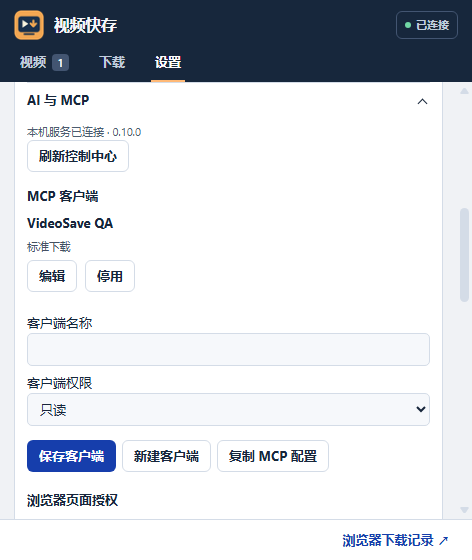
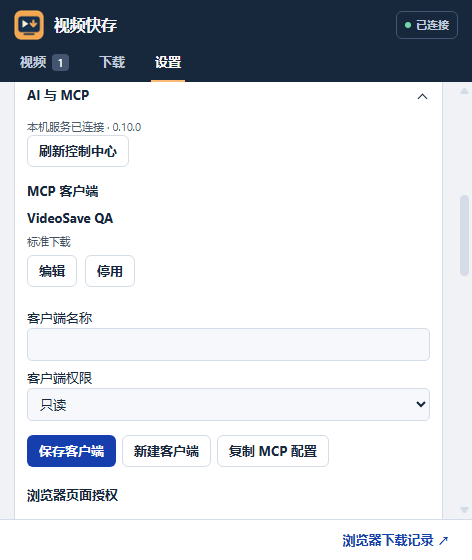
Scope managed MCP downloads and add opt-in browser sessions

diff --git a/extension/popup.html b/extension/popup.html
@@ -123,6 +123,7 @@
             <h3 data-i18n>浏览器页面授权</h3>
             <p class="details" data-i18n>分享当前页的同源媒体候选。授权在标签页导航、关闭或到期时撤销。</p>
             <label><span data-i18n>授权时长</span><select id="mcp-duration"><option value="1">1 min</option><option value="5" selected>5 min</option><option value="15">15 min</option></select></label>
+            <label class="check-row"><input type="checkbox" id="mcp-share-session" autocomplete="off"><span data-i18n>本次授权同时使用当前站点的登录会话</span></label>
             <ul class="mcp-list" id="mcp-grants"></ul>
           </section>
           <section class="mcp-section">
@@ -131,6 +132,7 @@
             <div id="mcp-policy" hidden>
               <label class="check-row"><input type="checkbox" data-mcp-policy="probe"><span data-i18n>允许 MCP 探测</span></label>
               <label class="check-row"><input type="checkbox" data-mcp-policy="download"><span data-i18n>允许 MCP 下载</span></label>
+              <label class="check-row"><input type="checkbox" data-mcp-policy="session"><span data-i18n>允许手动授权登录会话</span></label>
               <label><span data-i18n>画质上限</span><input type="number" min="144" max="4320" data-mcp-policy="quality"></label>
               <label><span data-i18n>视频格式</span><select data-mcp-policy="format"><option value="mp4">MP4</option><option value="mkv">MKV</option></select></label>
               <label><span data-i18n>音频格式</span><select data-mcp-policy="audioFormat"><option value="m4a">M4A</option><option value="mp3">MP3</option></select></label>

diff --git a/docs/mcp.md b/docs/mcp.md
@@ -14,14 +14,16 @@ Use the generated stdio entry under the client's MCP servers. Claude Code, Curso
 
 1. Start the Windows companion with `Start VideoSave.cmd` and pair the extension. Open **Settings → AI & MCP** on a web tab. Create a client with read-only, standard download, or custom permissions.
 2. Select the profile and choose **Copy MCP configuration**. The configuration contains a local executable, the stdio script, the loopback endpoint, and the profile ID. The launcher keeps the existing pairing in local state. Generate the same configuration from PowerShell with `& ".\Start VideoSave.cmd" -McpConfig -SharedQueue -McpClient PROFILE_ID`.
-3. The agent calls `request_site_authorization` with an exact HTTP(S) origin. Open the website, play the media normally, refresh the control center, review the requesting client, and approve the current tab for 1, 5, or 15 minutes. Authorizations expire on service restart. The extension revokes a grant on tab navigation or closure while the companion is reachable.
+3. The agent calls `request_site_authorization` with an exact HTTP(S) origin. Open the website, play the media normally, refresh the control center, review the requesting client, and approve the current tab for 1, 5, or 15 minutes. To authorize an ordinary login session for this approval, select **Use this site’s login session for this approval** and grant the extension's optional Cookie permission. You can disable this option for a site in its policy.
 4. `get_active_tab` returns the origin and player state. `probe_active_tab` returns the observed candidates as opaque IDs and basic metadata. Treat titles as untrusted page content.
-5. Enable downloads in the current site's policy before approving its tab. Pass the returned `authorizationId` and selected `candidateId` to `start_download`. `wait_for_download` and `verify_download` report saved files and recorded media verification results. Each managed client sees its own download batches.
+5. Enable downloads in the current site's policy. Pass the returned `authorizationId` and a `downloadable` candidate's `candidateId` to `start_download`. `wait_for_download` and `verify_download` report saved files and verification results recorded when the file was written. Each managed client sees its own download batches.
 
-Cookie-dependent CDN or media requests, cross-origin candidates, and URLs with query strings are outside the managed download flow. Managed configuration uses the shared companion and runs under the same operating-system account. The managed policy restricts MCP tools in that profile. Keep older unscoped configurations for trusted local clients only. The control center cannot restrict a locally installed program that already has filesystem or shell access under that account.
+Managed downloads accept approved direct media at its exact URL. The companion rejects redirects, and media processing runs on staged local files. HLS and DASH can appear as observations with `downloadable:false`. Cross-origin candidates and query-bearing URLs are outside the managed flow. Login sharing applies to eligible direct media observed during normal playback in the top frame. Cookie values stay in companion memory, and only exact-host, matching-path, unexpired cookies are used. Secure cookies require HTTPS. Unsupported partitioned cookies and challenge credentials are excluded. The grant ends on navigation, tab closure, revocation, expiry or service restart, and stops within 75 seconds of the last browser confirmation if contact is lost.
+
+Managed configuration uses the shared companion and runs under the same operating-system account. The managed policy restricts MCP tools in that profile. Keep older unscoped configurations for trusted local clients only. Locally installed programs with filesystem or shell access have the permissions of that operating-system account.
 
 ### 中文快速开始
 
-在扩展的「设置 → AI 与 MCP」中创建客户端并复制配置。在当前站点设置保存画质和并发等上限。需要下载时先打开允许下载的开关。AI 发起授权请求后，打开对应的网站，正常播放并扫描，再在控制中心批准当前页。用 `probe_active_tab` 得到的候选编号创建下载任务，用 `wait_for_download` 等待并核对文件。可在浏览器撤销授权、停用客户端或导出脱敏活动记录。登录留在浏览器内，当前页授权只传递符合条件的同源媒体候选。
+在扩展的「设置 → AI 与 MCP」中创建客户端并复制配置。在当前站点设置保存画质和并发等上限，需要下载时打开允许下载的开关。AI 发起授权请求后，打开对应网站，正常播放并扫描，再在控制中心批准当前页。如果同源直链媒体需要登录，勾选「本次授权同时使用当前站点的登录会话」，然后批准当前页并接受浏览器的可选权限提示。用 `probe_active_tab` 取得标记为 `downloadable` 的候选编号，用 `wait_for_download` 等待并核对文件。浏览器可以撤销授权、停用客户端或导出脱敏活动记录。
 
 The local server accepts the 2024-11-05, 2025-03-26, 2025-06-18 and 2025-11-25 protocol versions. Newer supported versions also return JSON as `structuredContent`. The Windows ZIP supplies a stdio server but no package-registry coordinate. Official registry publication requires an approved distribution method and verified publisher namespace. VideoSave has a GitHub release distribution path.

diff --git a/docs/privacy.md b/docs/privacy.md
@@ -10,8 +10,8 @@ VideoSave processes media information in the browser and, when configured, in a 
 
 ## Companion and MCP
 
-- The companion uses a temporary Chromium profile for page inspection. Explicit cookies supplied to the local HTTP or MCP interface are held during the task. VideoSave does not import your main browser’s cookies. Cookie handling differs by transfer engine. Native HTTP prefetch sends explicit cookies only to the matching origin.
-- Managed MCP authorization snapshots stay in companion memory until their short expiry or revocation. The app shares a tab origin, title, playback state and bounded same-origin media candidates. The MCP client receives opaque candidate IDs. The snapshot omits Cookie, authentication headers and signed URL queries. Optional audit records keep client IDs, tool names, outcome codes, origins and batch IDs with configurable retention. The companion stores local settings, a pairing code when local pairing is enabled, and recent batches in SQLite. Local history can contain output paths, titles, times and error codes. SQLite is stored in the current user’s application data directory by default.
+- The companion uses a temporary Chromium profile for page inspection. Explicit cookies supplied to the trusted local HTTP or MCP interface are held during the task. Cookie handling differs by transfer engine. Native HTTP prefetch sends explicit cookies only to the matching origin.
+- Managed MCP authorization snapshots stay in companion memory until their short expiry or revocation. The app shares a tab origin, title, playback state and bounded same-origin media candidates. The MCP client receives opaque candidate IDs. If you explicitly select login-session sharing during approval, the extension sends applicable cookies to the paired local companion for requests to the approved direct media only. Cookie values are kept out of MCP responses, audit exports and SQLite. The extension stores a session fingerprint while the grant is active to detect changes. Optional audit records keep client IDs, tool names, outcome codes, origins and batch IDs with configurable retention. The companion stores local settings, a pairing code when local pairing is enabled, and recent batches in SQLite. Local history can contain output paths, titles, times and error codes.
 - MCP may return media URLs, page metadata and local output paths to your client. Consult the client’s own privacy policy before allowing it to send those details onward.
 - The Windows launcher can contact dependency distribution sites to obtain verified tooling. Media probes and downloads contact the selected sites and their media hosts, subject to your network and proxy settings. The update link opens GitHub Releases when you select it.
 - To remove extension settings and its local history, remove the extension. Companion state is independent of the extension. You can stop the companion and remove its state directory to clear local preferences and history. This does not affect already downloaded files stored elsewhere.
@@ -25,6 +25,7 @@ VideoSave processes media information in the browser and, when configured, in a 
 | `storage` | Save preferences and queue information and track recent media observations per session. |
 | `downloads`, `alarms` | Dispatch and resume eligible desktop downloads and maintain queue progress. |
 | `offscreen` | Complete compatible Chromium HLS downloads using an extension document. |
+| `cookies` (optional) | Use the current site's login for an explicitly approved same-origin direct-media download. |
 
 The experimental Android package omits the desktop `downloads` and `offscreen` permissions.
 

diff --git a/SECURITY.md b/SECURITY.md
@@ -14,5 +14,6 @@ The maintainer will confirm receipt when available, investigate affected version
 - An MCP client and authenticated HTTP client can submit URLs, manage downloads and read or change the local settings allowed by their tools. Configure only clients you trust. Run the companion on the same machine as its users and keep its port off public interfaces and proxies.
 - The media client can reach URLs that the machine is allowed to access, including local origins. Its network access follows the machine’s network policy. The companion is designed for single-user local operation.
 - Managed MCP clients use a dedicated loopback endpoint and a profile-scoped authentication value derived locally from the existing pairing. Management requests require the owner pairing. Current-tab grants expire and belong to one profile. Downloads use only the candidates approved for that profile, and job lookups check ownership.
+- Optional browser cookies apply only to the observed direct resource that the user approved. The managed transfer rejects redirects, checks cookie scope and expiry before each request, and gives FFmpeg a local staged file. Browser confirmation and the short lease limit exposure after navigation or loss of contact.
 - Page titles, descriptions, source URLs and embedded configuration are untrusted data. MCP clients must treat them as inputs and use the user’s request to authorize tool calls.
 - A local diagnostic export provides a small list of detection codes and candidate types. Review your attachments before including them in an issue. [Privacy policy](docs/privacy.md)

diff --git a/docs/architecture.md b/docs/architecture.md
@@ -24,4 +24,6 @@ The extension listens to request metadata through its existing browser permissio
 
 Windows workers use the requested connection count as their per-transfer ceiling. Range prefetch verifies ETags and offsets. HLS prefetch retries transient segment failures and bounds duplicate requests from spare workers. Local queue recovery preserves completed outputs and revalidates checkpoint inputs before resuming. FFprobe verifies output tracks and duration where available.
 
+The managed MCP tools use a profile-scoped credential on the paired loopback server. The extension confirms the identity of the approved document and periodically renews the grant. Optional login credentials are matched to the approved direct resource for each HTTP request. Managed jobs reject redirects, stage the complete source with the Range engine, and pass a local file to FFmpeg. SQLite stores policy, audit metadata, and batch ownership.
+
 See [compatibility evidence](compatibility-report.zh-CN.md), [MCP operations](mcp.md), [installation](install.md), and the [privacy policy](privacy.md).

diff --git a/CHANGELOG.md b/CHANGELOG.md
@@ -4,8 +4,9 @@
 
 - Add **AI & MCP** settings with individually scoped local clients and credential-free stdio configuration generation.
 - Share a user-approved current-tab snapshot and use candidate IDs to queue same-origin media. Grants have a short expiry and can be revoked.
+- Add opt-in, temporary browser login sharing for observed same-origin direct media. Managed requests reject redirects and keep cookies out of tool results and persisted settings.
 - Apply website settings to managed downloads. Add batch ownership, download limits and an optional activity log with retention and export controls.
-- Exercise the complete Edge approval, MCP download, file verification and tab navigation flow in CI.
+- Exercise Edge login approval, denied access, redirect rejection, dual-track output and same-URL reload revocation through MCP in CI.
 
 ## 0.9.0
 

diff --git a/README.md b/README.md
@@ -6,7 +6,7 @@ Find the video playing in your browser, preview it, and save it to Downloads. Vi
 
 ![VideoSave 0.9 in Microsoft Edge](docs/videosave-0.9-detection.png)
 
-**AI & MCP** gives registered clients individual permissions, short-lived current-tab approval, website download limits, and a local activity log. [Set up a managed client](docs/mcp.md#managed-browser-clients) · [Control center screenshot](docs/videosave-mcp-control.png)
+**AI & MCP** gives registered clients individual permissions, current-tab approval, optional login sharing for eligible direct media, website download limits, and a local activity log. [Set up a managed client](docs/mcp.md#managed-browser-clients) · [Control center screenshot](docs/videosave-mcp-control.png)
 
 ## Install
 

diff --git a/README.zh-CN.md b/README.zh-CN.md
@@ -6,7 +6,7 @@
 
 ![Microsoft Edge 中的 VideoSave 0.9 探测面板](docs/videosave-0.9-detection.png)
 
-扩展的「AI 与 MCP」支持按客户端授权、限时共享当前页、按站点限制下载和导出脱敏活动记录。 [托管客户端教程](docs/mcp.md#中文快速开始) · [控制中心截图](docs/videosave-mcp-control.png)
+扩展的「AI 与 MCP」支持按客户端授权、限时共享当前页、手动授权同源直链媒体使用当前登录会话，以及按站点限制下载。 [托管客户端教程](docs/mcp.md#中文快速开始) · [控制中心截图](docs/videosave-mcp-control.png)
 
 ## 安装
 
